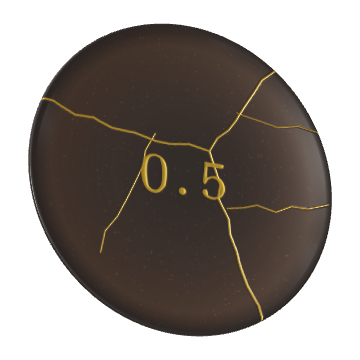
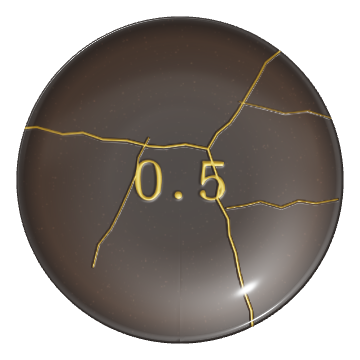
Awards round 2: plates rest face-on, no end-of-entrance snap, drag spins without paging, full-width page, card width, title lines [record-snapshots]
Eamon tested build 269:
- The entrance ended with the plate still leaning 6.5 degrees, then snapped flat and began an
  idle sway on its last frame. The lean now returns to nothing as it lands, and there is no sway:
  every plate rests fully face-on, live and in the stills (re-baked from the same engine).
- In the takeover a drag on the plate also turned the page: the swipe was on the whole screen.
  It now listens only under the plate.
- An opened award's page was only as wide as its title until its rows landed, so the screen's
  own white showed at both sides. It now fills the width at every phase.
- Its entry slips were inset by the page gutter; they now use the one card width.
- Award names wrapped with the face's own loose leading; they now use the exact 1.05 box.

Claude-Session: https://claude.ai/code/session_01UmVTMLpfHvzRrwD16tKZkG

diff --git a/App/V2/Awards/AwardTakeoverScreen.swift b/App/V2/Awards/AwardTakeoverScreen.swift
@@ -27,24 +27,29 @@ struct AwardTakeoverScreen: View {
                 AtePlateView(stage: stage)
                     .frame(width: geometry.size.width, height: geometry.size.width)
                     .padding(.top, AwardTakeoverMetrics.plateTop)
-                if let current {
-                    words(current)
-                        .padding(.horizontal, AwardTakeoverMetrics.wordsInset)
-                        .padding(.top, AwardTakeoverMetrics.plateToWords)
+                // Paging is heard only under the plate: a drag on the plate spins it, and never
+                // turns the page (Eamon, build 269).
+                VStack(spacing: 0) {
+                    if let current {
+                        words(current)
+                            .padding(.horizontal, AwardTakeoverMetrics.wordsInset)
+                            .padding(.top, AwardTakeoverMetrics.plateToWords)
+                    }
+                    Spacer(minLength: AteMetrics.section)
+                    if awards.count > 1 { dots }
+                    buttons
+                        .padding(.horizontal, AteMetrics.gutter)
+                        .ateContentBottom(AwardTakeoverMetrics.buttonsBottom)
                 }
-                Spacer(minLength: AteMetrics.section)
-                if awards.count > 1 { dots }
-                buttons
-                    .padding(.horizontal, AteMetrics.gutter)
-                    .ateContentBottom(AwardTakeoverMetrics.buttonsBottom)
+                .frame(maxWidth: .infinity, maxHeight: .infinity)
+                .contentShape(.rect)
+                .gesture(swipe)
             }
             .frame(maxWidth: .infinity, maxHeight: .infinity, alignment: .top)
         }
         .background { ground }
         .environment(\.atePalette, .ink)
         .preferredColorScheme(.dark)
-        .contentShape(.rect)
-        .gesture(swipe)
         .accessibilityIdentifier("v2.award.takeover")
         .sheet(item: $sharing) { image in
             ShareSheet(image: image.image)
@@ -74,7 +79,7 @@ struct AwardTakeoverScreen: View {
     private func words(_ award: EarnedAward) -> some View {
         VStack(spacing: 0) {
             Text(award.award.name)
-                .ateText(.awardTakeoverTitle)
+                .ateTextExactLifted(.awardTakeoverTitle)
                 .foregroundStyle(AteAwardColor.takeoverInk)
                 .multilineTextAlignment(.center)
                 .rise(isWordsUp, delay: AwardTakeoverMetrics.titleDelay, reduceMotion: reduceMotion)

diff --git a/App/Resources/Plates/plate-world.html b/App/Resources/Plates/plate-world.html
@@ -532,13 +532,13 @@ function flip(){if(intro){intro=null;pivot.position.set(0,0,0);key.position.x=-1
 function playIntro(){if(reduce){rot=target=0;return}intro={t0:performance.now()};target=0;vel=0;tilt=0}
 let last=performance.now();
 function tick(now){const dt=Math.min(50,now-last)/16.67;last=now;
-  if(intro){const t=Math.min(1,(now-intro.t0)/2200),e=1-Math.pow(1-t,4),u=1-e;const sw=Math.sin(e*Math.PI);if(curKind==='glass'){rot=-TAU*u;spinZ=0;tilt=.18*sw}else{rot=-.55*sw;spinZ=-TAU*u;tilt=.4*Math.sin(e*Math.PI*1.25)*(1-e*.6)}pivot.position.z=-1.6*u;pivot.position.y=-.22*u;canvas.style.opacity=Math.min(1,t*3);key.position.x=-1.6+5*u;if(t>=1){intro=null;pivot.position.set(0,0,0);rot=0;tilt=0;target=0;vel=0;key.position.x=-1.6;canvas.style.opacity=1}}
+  if(intro){const t=Math.min(1,(now-intro.t0)/2200),e=1-Math.pow(1-t,4),u=1-e;const sw=Math.sin(e*Math.PI);if(curKind==='glass'){rot=-TAU*u;spinZ=0;tilt=.18*sw}else{rot=-.55*sw;spinZ=-TAU*u;tilt=.4*Math.sin(e*Math.PI)*(1-e*.6)}pivot.position.z=-1.6*u;pivot.position.y=-.22*u;canvas.style.opacity=Math.min(1,t*3);key.position.x=-1.6+5*u;if(t>=1){intro=null;pivot.position.set(0,0,0);rot=0;tilt=0;target=0;vel=0;key.position.x=-1.6;canvas.style.opacity=1}}
   else if(!drag){vel=(vel+(target-rot)*.045*dt)*Math.pow(.88,dt);rot+=vel*dt;tilt+=(0-tilt)*.06*dt;idle+=.012*dt}
-  pivot.rotation.y=rot;pivot.rotation.x=tilt+(drag||intro?0:Math.sin(idle)*.07);pivot.rotation.y+=(drag||intro?0:Math.sin(idle*.8+1)*.09);pivot.rotation.z=intro?spinZ:(drag?0:Math.sin(idle*.7)*.03);
+  pivot.rotation.y=rot;pivot.rotation.x=tilt;pivot.rotation.z=intro?spinZ:0;
   renderer.render(scene,camera);requestAnimationFrame(tick)}
 
 /* ---------- the app's handle on the plate ---------- */
-function shoot(a,off){pivot.position.set(0,0,0);pivot.rotation.set(a.kind==='glass'?.22:-.32,.38,0);build(a,off);renderer.render(scene,camera);return renderer.domElement.toDataURL('image/png')}
+function shoot(a,off){pivot.position.set(0,0,0);pivot.rotation.set(a.kind==='glass'?.12:0,0,0);build(a,off);renderer.render(scene,camera);return renderer.domElement.toDataURL('image/png')}
 const post=(m)=>{try{webkit.messageHandlers.plate.postMessage(m)}catch(e){}};
 let running=false;
 function ready(){

diff --git a/App/V2/Awards/V2AwardPage.swift b/App/V2/Awards/V2AwardPage.swift
@@ -38,9 +38,10 @@ struct V2AwardPage: View {
                     .frame(width: AteAwardsMetrics.detailPlate, height: AteAwardsMetrics.detailPlate)
                     .padding(.top, AteMetrics.loose)
                 Text(route.award.name)
-                    .ateText(.awardTitle)
+                    .ateTextExactLifted(.awardTitle)
                     .foregroundStyle(AtePalette.automatic.fg)
                     .multilineTextAlignment(.center)
+                    .padding(.horizontal, AteMetrics.gutter)
                     .padding(.top, AteMetrics.tight)
                 if let award {
                     Text(AtePlateSpec.backstampDate(award.earnedAt))
@@ -51,8 +52,10 @@ struct V2AwardPage: View {
                         .transition(.opacity)
                 }
             }
+            // Full width at every phase: before its rows land the page is only as wide as its
+            // title, and the screen's own white showed at both sides (Eamon, build 269).
+            .frame(maxWidth: .infinity)
             .ateAnimation(AteMotion.fillIn, value: award == nil)
-            .padding(.horizontal, AteMetrics.gutter)
             .padding(.bottom, AteMetrics.section)
         }
         .ateRefreshable { await store.refresh() }
@@ -85,8 +88,10 @@ struct V2AwardPage: View {
         switch route.award.opening {
         case .mosaic(let count):
             mosaic(award, count: count)
+                .padding(.horizontal, AteMetrics.gutter)
         case .dishes:
             dishRows
+                .padding(.horizontal, AteMetrics.gutter)
                 .padding(.top, AteMetrics.section)
         case .entries:
             slips
@@ -182,6 +187,7 @@ struct V2AwardPage: View {
                     onDish: { context.open(.dish($0.dishID), from: .award) },
                     identifier: "award.slip"
                 )
+                .ateCardWidth() // the one card width, as on the Journal and a profile
             }
         }
     }

diff --git a/design/plates/build.py b/design/plates/build.py
@@ -8,6 +8,8 @@ the app without touching how a plate looks or moves:
   * the ids become the server's award ids (0098),
   * the backstamp and the glass engraving use the app's DM Sans and carry the viewer's handle,
   * the mockup page's grid, table and buttons go; `window.ate` is the app's handle on it,
+  * every plate rests fully face-on, live and in the stills (Eamon, build 269): the entrance's lean
+    ends at zero instead of snapping there on its last frame, and there is no idle sway after it,
 and writes one self-contained page (three.js, the fonts and the wordmark inlined) to
 App/Resources/Plates/plate-world.html, which `AtePlateView` loads into a WKWebView.
 `bake.js` renders the stills the rows and grids use from the same page.
@@ -72,12 +74,18 @@ def engine():
                 APP_TAIL, js, count=1, flags=re.S)
     js = re.sub(r"function setTheme\(t\)\{.*?\nfunction start\(\)\{[^\n]*\n",
                 "function start(){resize();addEventListener('resize',resize);ready()}\n", js, count=1, flags=re.S)
+    # rest face-on: the lean comes back to nothing as the entrance lands, and nothing sways after
+    js = sub(js, "tilt=.4*Math.sin(e*Math.PI*1.25)*(1-e*.6)", "tilt=.4*Math.sin(e*Math.PI)*(1-e*.6)")
+    js = sub(js, "pivot.rotation.x=tilt+(drag||intro?0:Math.sin(idle)*.07);"
+                 "pivot.rotation.y+=(drag||intro?0:Math.sin(idle*.8+1)*.09);"
+                 "pivot.rotation.z=intro?spinZ:(drag?0:Math.sin(idle*.7)*.03);",
+             "pivot.rotation.x=tilt;pivot.rotation.z=intro?spinZ:0;")
     js = sub(js, "'600 30px \"DM Sans\"'", "'600 30px \"DM Sans\"','500 30px \"DM Sans\"'")
     return js
 
 
 APP_TAIL = r"""/* ---------- the app's handle on the plate ---------- */
-function shoot(a,off){pivot.position.set(0,0,0);pivot.rotation.set(a.kind==='glass'?.22:-.32,.38,0);build(a,off);renderer.render(scene,camera);return renderer.domElement.toDataURL('image/png')}
+function shoot(a,off){pivot.position.set(0,0,0);pivot.rotation.set(a.kind==='glass'?.12:0,0,0);build(a,off);renderer.render(scene,camera);return renderer.domElement.toDataURL('image/png')}
 const post=(m)=>{try{webkit.messageHandlers.plate.postMessage(m)}catch(e){}};
 let running=false;
 function ready(){
